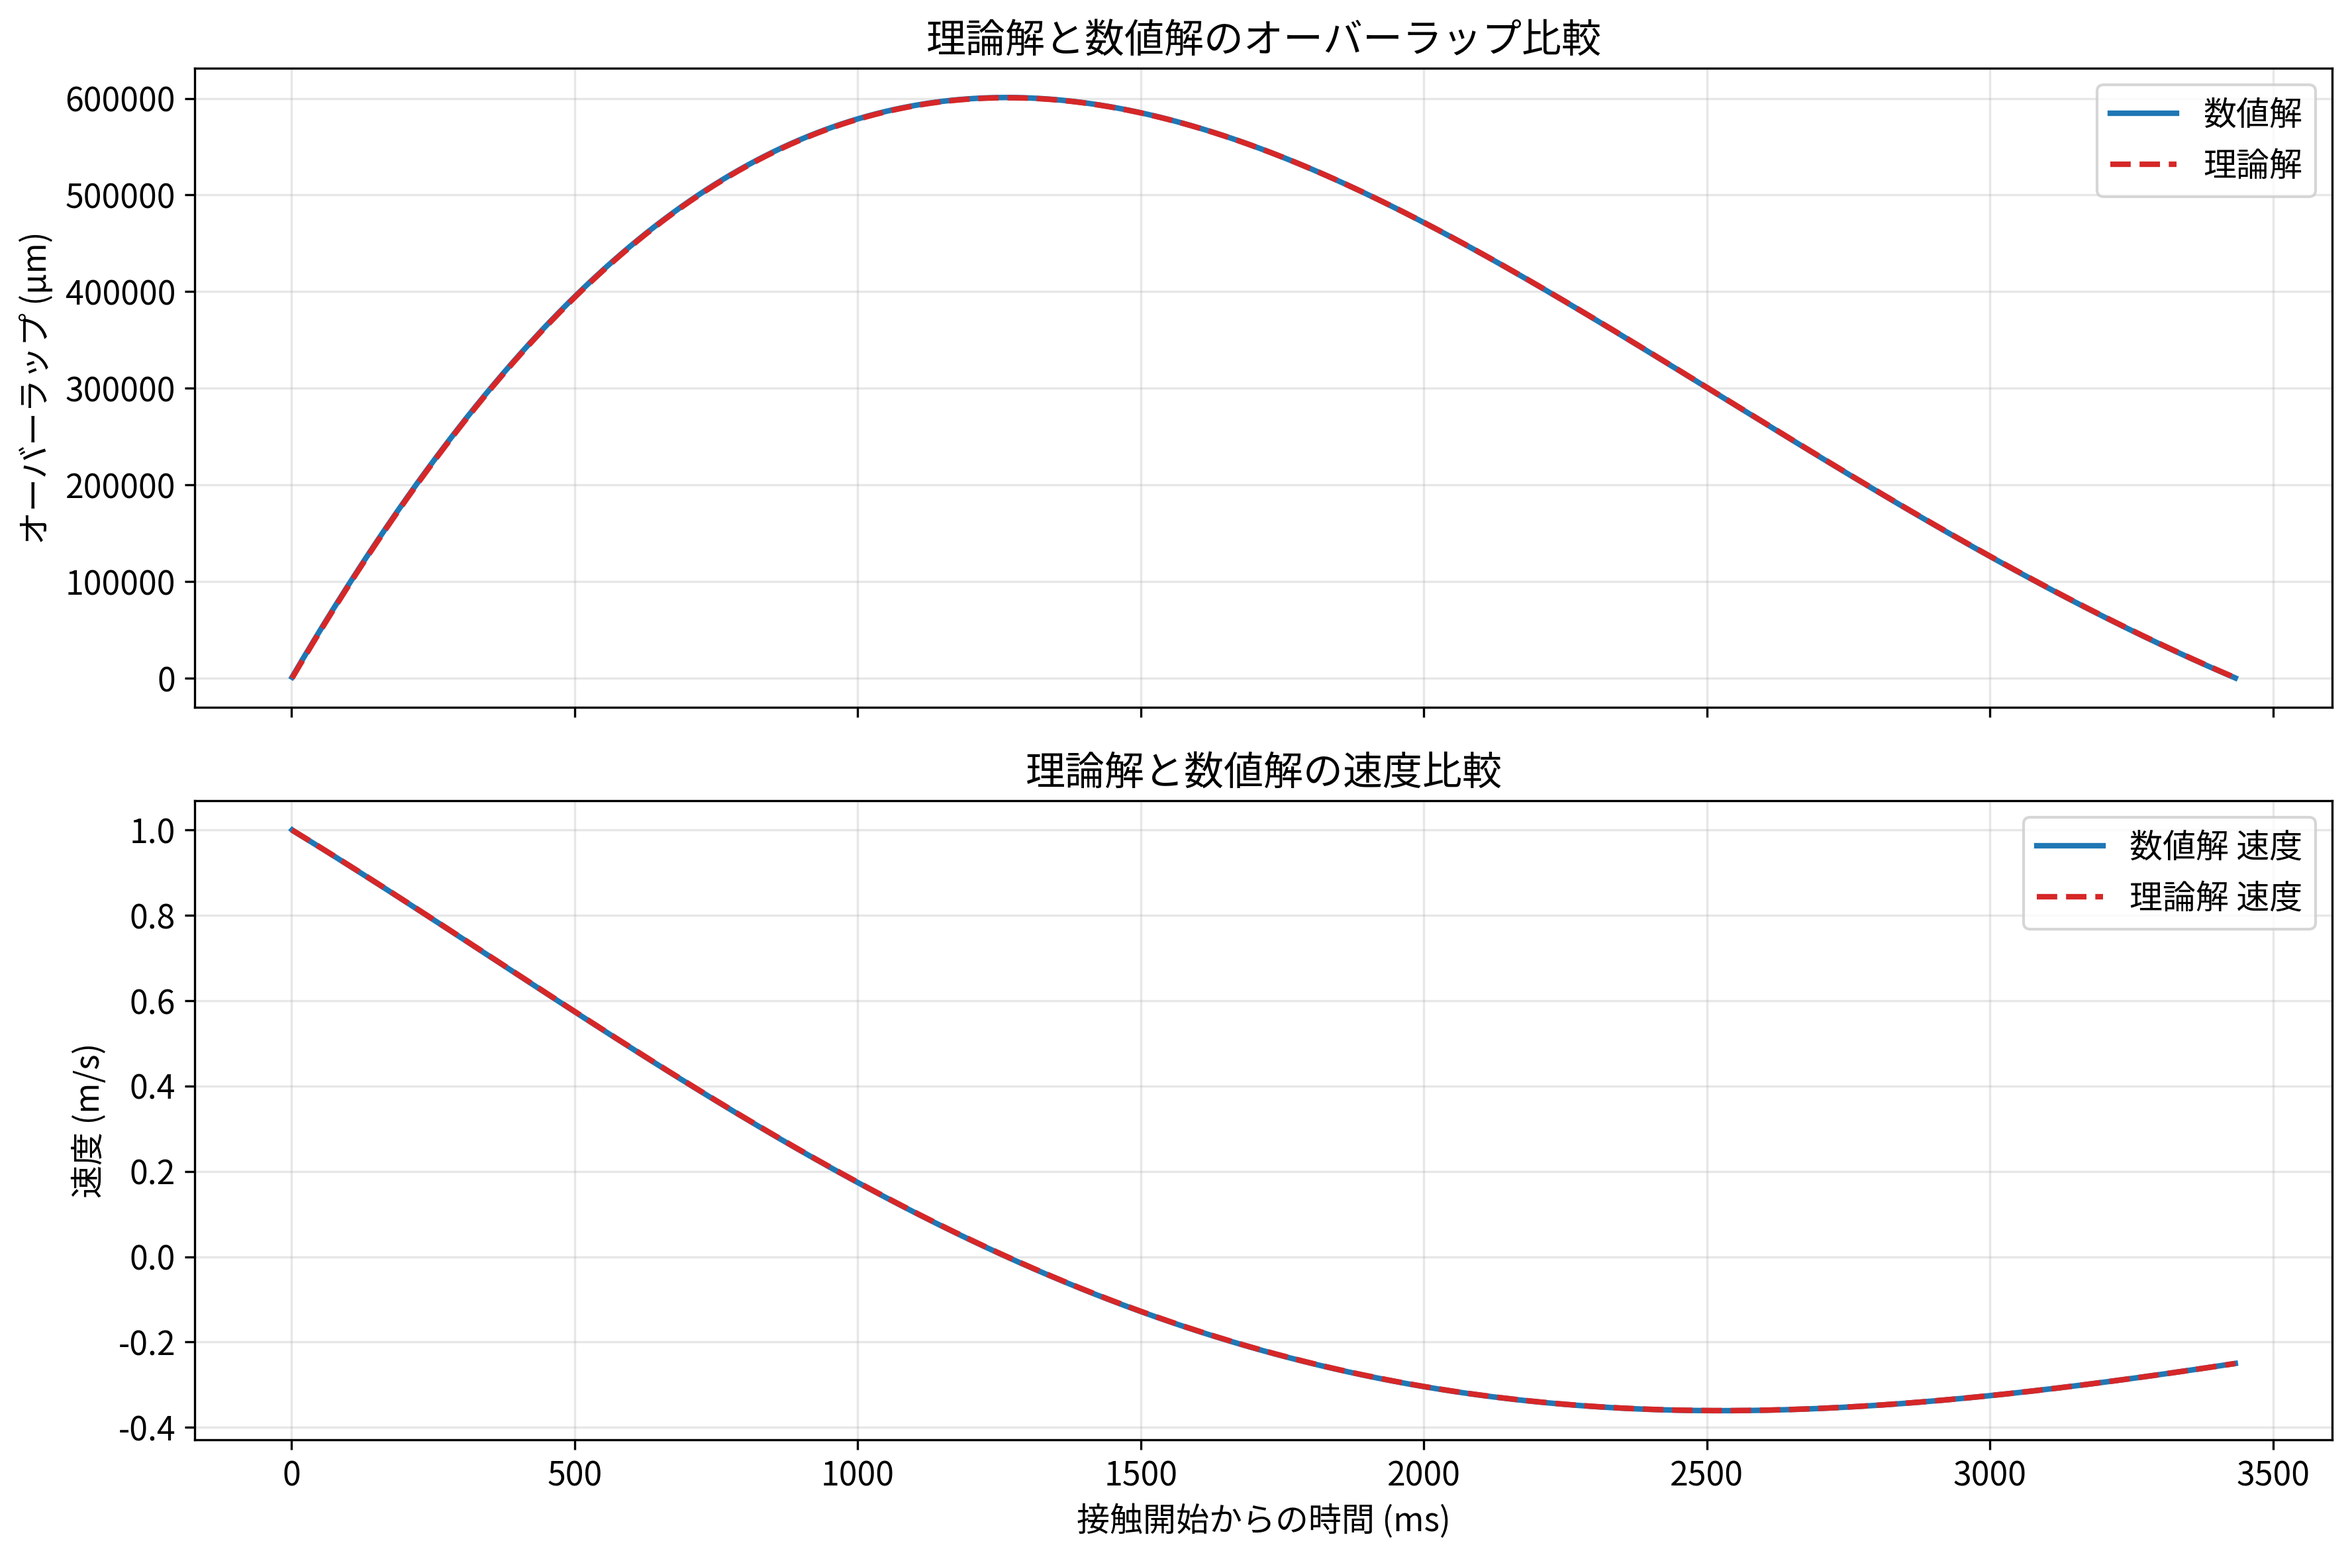
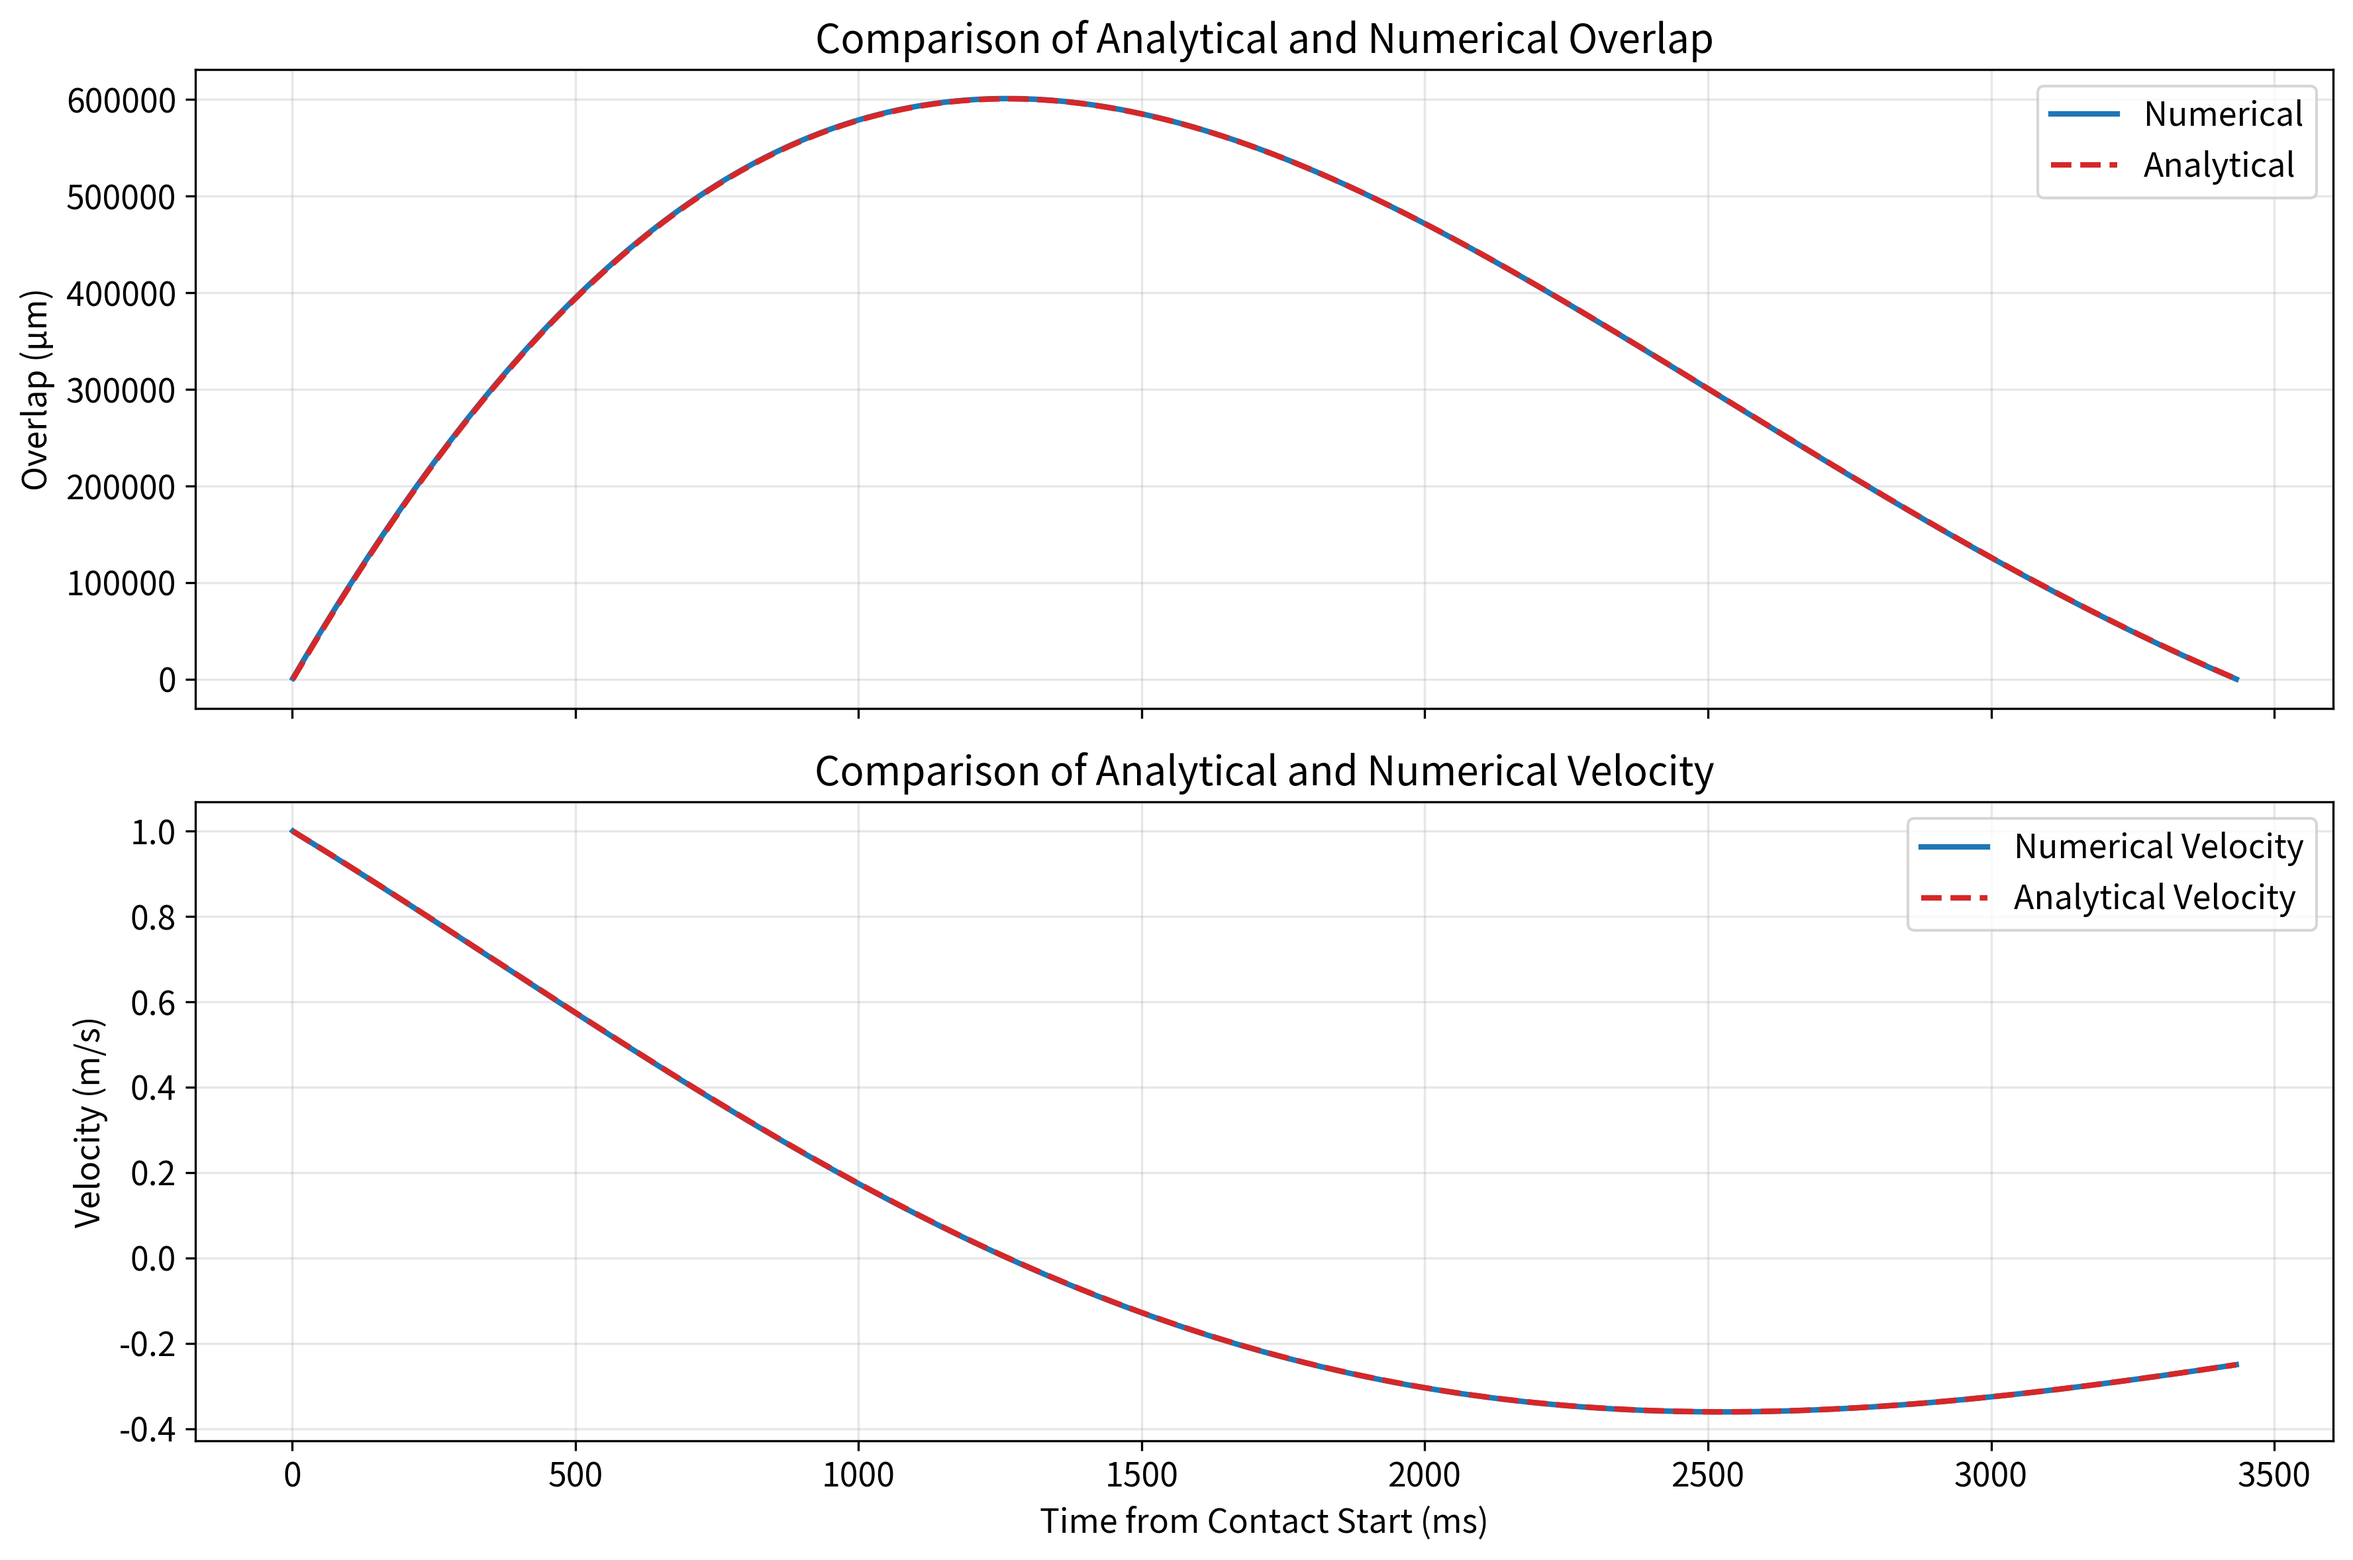
2026-1-19 ギットプッシュ漏れ

diff --git a/thesis/figures/plot_repose_angle_results.py b/thesis/figures/plot_repose_angle_results.py
@@ -18,16 +18,16 @@ angles_friction = np.array([0.93, 9.64, 11.47, 12.08, 11.80, 12.57])  # 度
 # プロット1: 摩擦係数 vs 安息角（シミュレーション結果のみ）
 fig, ax = plt.subplots(figsize=(8, 6))
 ax.scatter(friction_coeffs, angles_friction, s=100, c='tab:blue', 
-           marker='o', zorder=5, label='シミュレーション結果')
+           marker='o', zorder=5, label='Simulation Results')
 ax.plot(friction_coeffs, angles_friction, 'tab:blue', alpha=0.7, linewidth=1.5)
 
-ax.set_xlabel(r'滑り摩擦係数 $\mu$ [-]', fontsize=12)
-ax.set_ylabel(r'安息角 $\theta_r$ [deg]', fontsize=12)
+ax.set_xlabel(r'Sliding Friction Coefficient $\mu$ [-]', fontsize=12)
+ax.set_ylabel(r'Angle of Repose $\theta_r$ [deg]', fontsize=12)
 ax.set_xlim(-0.05, 1.05)
 ax.set_ylim(0, 15)
 ax.grid(True, alpha=0.3)
 ax.legend(loc='upper left', fontsize=11)
-ax.set_title('摩擦係数と安息角の関係', fontsize=14)
+ax.set_title('Sliding Friction Coefficient vs Angle of Repose', fontsize=14)
 
 plt.tight_layout()
 plt.savefig('friction_vs_repose_angle.png', dpi=150, bbox_inches='tight')
@@ -40,16 +40,16 @@ angles_rolling = np.array([1.51, 8.24, 8.90, 9.43, 9.51, 9.69])  # 度
 # プロット2: 転がり摩擦係数 vs 安息角
 fig, ax = plt.subplots(figsize=(8, 6))
 ax.scatter(rolling_friction_coeffs, angles_rolling, s=100, c='tab:orange', 
-           marker='s', zorder=5, label='シミュレーション結果')
+           marker='s', zorder=5, label='Simulation Results')
 ax.plot(rolling_friction_coeffs, angles_rolling, 'tab:orange', alpha=0.7)
 
-ax.set_xlabel(r'転がり摩擦係数 $\mu_r$ [-]', fontsize=12)
-ax.set_ylabel(r'安息角 $\theta_r$ [deg]', fontsize=12)
+ax.set_xlabel(r'Rolling Friction Coefficient $\mu_r$ [-]', fontsize=12)
+ax.set_ylabel(r'Angle of Repose $\theta_r$ [deg]', fontsize=12)
 ax.set_xlim(-0.05, 1.05)
 ax.set_ylim(0, 15)
 ax.grid(True, alpha=0.3)
 ax.legend(loc='upper left', fontsize=11)
-ax.set_title('転がり摩擦係数と安息角の関係', fontsize=14)
+ax.set_title('Rolling Friction Coefficient vs Angle of Repose', fontsize=14)
 
 plt.tight_layout()
 plt.savefig('rolling_friction_vs_repose_angle.png', dpi=150, bbox_inches='tight')
@@ -61,28 +61,28 @@ fig, axes = plt.subplots(1, 2, figsize=(14, 5))
 # 左: 滑り摩擦
 ax1 = axes[0]
 ax1.scatter(friction_coeffs, angles_friction, s=100, c='tab:blue', 
-            marker='o', zorder=5, label='シミュレーション結果')
+            marker='o', zorder=5, label='Simulation Results')
 ax1.plot(friction_coeffs, angles_friction, 'tab:blue', alpha=0.7, linewidth=1.5)
-ax1.set_xlabel(r'滑り摩擦係数 $\mu$ [-]', fontsize=12)
-ax1.set_ylabel(r'安息角 $\theta_r$ [deg]', fontsize=12)
+ax1.set_xlabel(r'Sliding Friction Coefficient $\mu$ [-]', fontsize=12)
+ax1.set_ylabel(r'Angle of Repose $\theta_r$ [deg]', fontsize=12)
 ax1.set_xlim(-0.05, 1.05)
 ax1.set_ylim(0, 15)
 ax1.grid(True, alpha=0.3)
 ax1.legend(loc='upper left', fontsize=10)
-ax1.set_title('(a) 滑り摩擦係数の影響', fontsize=12)
+ax1.set_title('(a) Effect of Sliding Friction', fontsize=12)
 
 # 右: 転がり摩擦
 ax2 = axes[1]
 ax2.scatter(rolling_friction_coeffs, angles_rolling, s=100, c='tab:orange', 
-            marker='s', zorder=5, label='シミュレーション結果')
+            marker='s', zorder=5, label='Simulation Results')
 ax2.plot(rolling_friction_coeffs, angles_rolling, 'tab:orange', alpha=0.7, linewidth=1.5)
-ax2.set_xlabel(r'転がり摩擦係数 $\mu_r$ [-]', fontsize=12)
-ax2.set_ylabel(r'安息角 $\theta_r$ [deg]', fontsize=12)
+ax2.set_xlabel(r'Rolling Friction Coefficient $\mu_r$ [-]', fontsize=12)
+ax2.set_ylabel(r'Angle of Repose $\theta_r$ [deg]', fontsize=12)
 ax2.set_xlim(-0.05, 1.05)
 ax2.set_ylim(0, 15)
 ax2.grid(True, alpha=0.3)
 ax2.legend(loc='upper left', fontsize=10)
-ax2.set_title('(b) 転がり摩擦係数の影響', fontsize=12)
+ax2.set_title('(b) Effect of Rolling Friction', fontsize=12)
 
 plt.tight_layout()
 plt.savefig('repose_angle_combined.png', dpi=150, bbox_inches='tight')

diff --git a/validation/wall1d/plots/plot_overlap_validation.py b/validation/wall1d/plots/plot_overlap_validation.py
@@ -56,7 +56,7 @@ def setup_japanese_font():
     plt.rcParams['font.size'] = 12
 
 
-def load_csv(path='PEM/data/overlap_validation.csv'):
+def load_csv(path='data/overlap_validation.csv'):
     if not os.path.exists(path):
         print(f"エラー: {path} が見つかりません")
         return None
@@ -128,18 +128,18 @@ def plot_overlap(df, output_dir='plots'):
     # 上段: オーバーラップ比較、下段: 速度比較
     fig, (ax1, ax2) = plt.subplots(2, 1, figsize=(12, 8), sharex=True)
 
-    ax1.plot(t * 1e3, num * 1e6, label='数値解', color='C0', lw=2)
-    ax1.plot(t * 1e3, theo * 1e6, label='理論解', color='C3', lw=2, ls='--')
-    ax1.set_ylabel('オーバーラップ (µm)')
-    ax1.set_title('理論解と数値解のオーバーラップ比較')
+    ax1.plot(t * 1e3, num * 1e6, label='Numerical', color='C0', lw=2)
+    ax1.plot(t * 1e3, theo * 1e6, label='Theoretical', color='C3', lw=2, ls='--')
+    ax1.set_ylabel('Overlap (µm)')
+    ax1.set_title('Overlap Comparison: Numerical vs Theoretical')
     ax1.grid(True, alpha=0.3)
     ax1.legend()
 
-    ax2.plot(t * 1e3, v_num, label='数値解 速度', color='C0', lw=2)
-    ax2.plot(t * 1e3, v_theo, label='理論解 速度', color='C3', lw=2, ls='--')
-    ax2.set_xlabel('接触開始からの時間 (ms)')
-    ax2.set_ylabel('速度 (m/s)')
-    ax2.set_title('理論解と数値解の速度比較')
+    ax2.plot(t * 1e3, v_num, label='Numerical Velocity', color='C0', lw=2)
+    ax2.plot(t * 1e3, v_theo, label='Theoretical Velocity', color='C3', lw=2, ls='--')
+    ax2.set_xlabel('Time from Contact Start (ms)')
+    ax2.set_ylabel('Velocity (m/s)')
+    ax2.set_title('Velocity Comparison: Numerical vs Theoretical')
     ax2.grid(True, alpha=0.3)
     ax2.legend()
 

diff --git a/validation/particle1d/plots/plot_particle_collision.py b/validation/particle1d/plots/plot_particle_collision.py
@@ -130,18 +130,18 @@ def plot_overlap(df, output_dir='data'):
     # 上段: オーバーラップ比較、下段: 速度比較
     fig, (ax1, ax2) = plt.subplots(2, 1, figsize=(12, 8), sharex=True)
 
-    ax1.plot(t * 1e3, num * 1e3, label='数値解', color='C0', lw=2)
-    ax1.plot(t * 1e3, theo * 1e3, label='理論解', color='C3', lw=2, ls='--')
-    ax1.set_ylabel('オーバーラップ (mm)')
-    ax1.set_title('粒子間衝突：理論解と数値解のオーバーラップ比較')
+    ax1.plot(t * 1e3, num * 1e3, label='Numerical', color='C0', lw=2)
+    ax1.plot(t * 1e3, theo * 1e3, label='Theoretical', color='C3', lw=2, ls='--')
+    ax1.set_ylabel('Overlap (mm)')
+    ax1.set_title('Particle Collision: Overlap Comparison')
     ax1.grid(True, alpha=0.3)
     ax1.legend()
 
-    ax2.plot(t * 1e3, v_num, label='数値解 相対速度', color='C0', lw=2)
-    ax2.plot(t * 1e3, v_theo, label='理論解 相対速度', color='C3', lw=2, ls='--')
-    ax2.set_xlabel('接触開始からの時間 (ms)')
-    ax2.set_ylabel('相対速度 (m/s)')
-    ax2.set_title('粒子間衝突：理論解と数値解の相対速度比較')
+    ax2.plot(t * 1e3, v_num, label='Numerical Relative Velocity', color='C0', lw=2)
+    ax2.plot(t * 1e3, v_theo, label='Theoretical Relative Velocity', color='C3', lw=2, ls='--')
+    ax2.set_xlabel('Time from Contact Start (ms)')
+    ax2.set_ylabel('Relative Velocity (m/s)')
+    ax2.set_title('Particle Collision: Relative Velocity Comparison')
     ax2.grid(True, alpha=0.3)
     ax2.legend()
 
